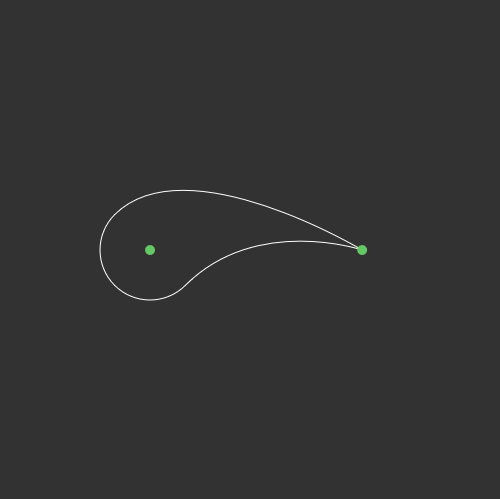
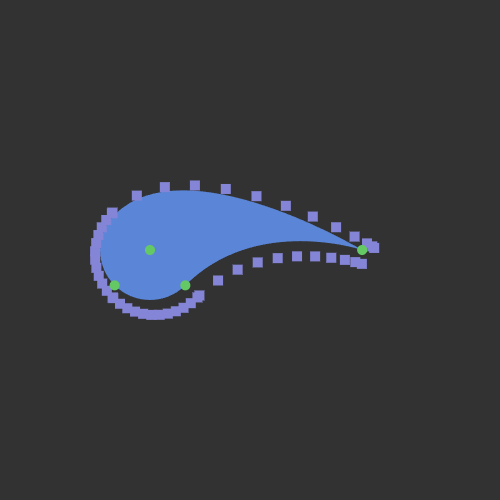
p5js/common/examples/paisley-2 Add exterior accent (work-in-progress)
I'm thinking that this might be the way to go here ... I'm seeing issues with getting the tangent and moving a 'margin' away from the edge.

I'm going to investigate creating a scaled 'Paisley' object that sits below this Paisley Object.

I am interesting in generizing the the ability to have accent-marks (interior and exterior) around my p5.js shapes ...
... but maybe all of the shapes follow a model of having an exterior/interior representation of themselves.

Or they just scale themselves in place as they draw their accents ... hmmm.

Changed region(s): [[0.18, 0.3607, 0.78, 0.6613]]

diff --git a/p5js/common/shapes/paisley.js b/p5js/common/shapes/paisley.js
@@ -29,6 +29,17 @@ class Paisley {
     this.points.push(this.tail);
     this.points.push(this.headingPt);
     this.points.push(this.radiusPt);
+
+    // Exterior Accent
+    // want a 'shape' that can be drawn
+    // want spacing between them
+    // want spacing from edge
+    // want toggling to display or not
+    // want it to handle styling based on percent around paisley side
+    // will want the same for 'interior' accent
+    // FOR NOW: Assume sensible defaults; and then iterate
+    // this paisley will likely handle rotation translation
+    this.exteriorAccent = undefined;
   }
 
   _constructorCall(){
@@ -63,6 +74,8 @@ class Paisley {
     if (this.polybezier == undefined){
       this.polybezier = new Polybezier();
     }
+
+    // TODO: Investigate moving existing curves rather than recreate them
     this.polybezier.clear();
     this.polybezier.append(BezierCurve.circularQuarterArc(this.x, this.y, this.bulbRadius, this.heading - HALF_PI));
     this.polybezier.append(BezierCurve.circularQuarterArc(this.x, this.y, this.bulbRadius, this.heading));
@@ -200,9 +213,29 @@ class Paisley {
   draw(){
     P5JsUtils.applyStyleSet(this);
     this.polybezier.draw();
+    this.drawExteriorAccent();
 
     if (this.dragEnabled) {
       P5JsUtils.drawControlPoints(this.points);
+    }
+  }
+
+  drawExteriorAccent(){
+    if (this.exteriorAccent == undefined){
+      return;
+    }
+    let curve;
+    let accentLocation;
+
+    for (let i = 0; i < this.polybezier.curves.length; i++){
+      curve = this.polybezier.curves[i];
+
+      for (let j = 0; j < 1; j += this.exteriorAccent.step){
+        accentLocation = curve.perpendicularAt(j, this.exteriorAccent.margin * -1).rotate180().start;
+        
+        this.exteriorAccent.moveTo(accentLocation.x, accentLocation.y);
+        this.exteriorAccent.draw();
+      }
     }
   }
 }

diff --git a/p5js/common/examples/paisley-2/app.js b/p5js/common/examples/paisley-2/app.js
@@ -1,11 +1,13 @@
 var system;
 var paisley;
+var extAccent;
 
 
 const settings = {
 }
 
 function setup() {
+  // createCanvas(500, 500);
   createCanvas(windowWidth, windowHeight-35);
   P5JsSettings.init();
 
@@ -30,6 +32,19 @@ function setup() {
   gui.addColor(paisley, "strokeColor");
   gui.add(paisley, "strokeWeight", 0.5, 30, 0.5);
   gui.add(paisley, "dragEnabled");
+  
+  extAccent = new Rectangle(0,0, 10, 10);
+  extAccent.fillColor = "#8585d7";
+  extAccent.noStroke = true;
+  extAccent.margin = 10;
+  extAccent.step = 0.1;
+  paisley.exteriorAccent = extAccent;
+  
+  let extAccentGui = gui.addFolder("Exterior Accent");
+  extAccentGui.open();
+  extAccentGui.addColor(extAccent, "fillColor");
+  extAccentGui.add(extAccent, "margin", 0, 200, 1);
+  extAccentGui.add(extAccent, "step", 0.05, 1, 0.01);
 }
 
 function draw(){

diff --git a/p5js/common/shapes/bezier_curve.js b/p5js/common/shapes/bezier_curve.js
@@ -30,13 +30,18 @@ class BezierCurve {
   }
 
   // returns a line, perpendicular to the curve at the point
-  perpendicularAt(percent){
+  perpendicularAt(percent, length = undefined){
     let lineSeg = this.tangentAt(percent);
     lineSeg.rotate90AroundStart();
+
+    if (length != undefined){
+      lineSeg.setLength(length);
+    }
     return lineSeg;
   }
 
   tangentAt(percent){
+    //  consider shifting to bezierTangent(...)
     const delta = 0.0001;
     const pointJustBefore = this.pointAt(percent - delta);
     const pointJustAfter = this.pointAt(percent + delta);

diff --git a/js/models/rect.js b/js/models/rect.js
@@ -8,6 +8,8 @@ class Rect {
 
   get x(){ return this._x; }
   get y(){ return this._y; }
+  set x(newVal){ this._x = newVal; }
+  set y(newVal){ this._y = newVal; }
   get width(){ return this._width; }
   get height(){ return this._height; }
   get minX(){ return this._x; }
@@ -20,6 +22,11 @@ class Rect {
   move(x, y){
     this._x += x;
     this._y += y;
+  }
+
+  moveTo(x, y){
+    this._x = x;
+    this._y = y;
   }
 
   copy(){

diff --git a/p5js/common/shapes/line_segment.js b/p5js/common/shapes/line_segment.js
@@ -77,6 +77,18 @@ class LineSegment {
     this.end.y = this.start.y + deltaX;
   }
 
+  rotate180(){
+    const tempX = this.start.x;
+    const tempY = this.start.y;
+
+    this.start.x = this.end.x;
+    this.start.y = this.end.y;
+
+    this.end.x = tempX;
+    this.end.y = tempY;
+    return this;
+  }
+
   handleMousePressed(){
     const pointPressed = this.points.find(p => p.containsXY(mouseX, mouseY));
 

diff --git a/p5js/common/examples/paisley-2/README.md b/p5js/common/examples/paisley-2/README.md
@@ -1,7 +1,7 @@
 
 ## Overview
 
-This is a [p5.js][p5js-home] sketch to demonstrate the creation of a simple Paisley pattern.
+This is a [p5.js][p5js-home] sketch to demonstrate more advanced capabilites of the Paisley shape; to draw interior and exterior accents.
 
 
 ## Controls
@@ -18,7 +18,7 @@ Mouse
 
 ![screenshot][screenshot-01]
 
-[p5js-home]: http://p5js.org/
-[source-code]: https://github.com/brianhonohan/sketchbook/tree/master/p5js/common/examples/paisley/
-[live-view]: https://brianhonohan.com/sketchbook/p5js/common/examples/paisley/
+[p5js-home]: https://p5js.org/
+[source-code]: https://github.com/brianhonohan/sketchbook/tree/master/p5js/common/examples/paisley-2/
+[live-view]: https://brianhonohan.com/sketchbook/p5js/common/examples/paisley-2/
 [screenshot-01]: ./screenshot-01.png
